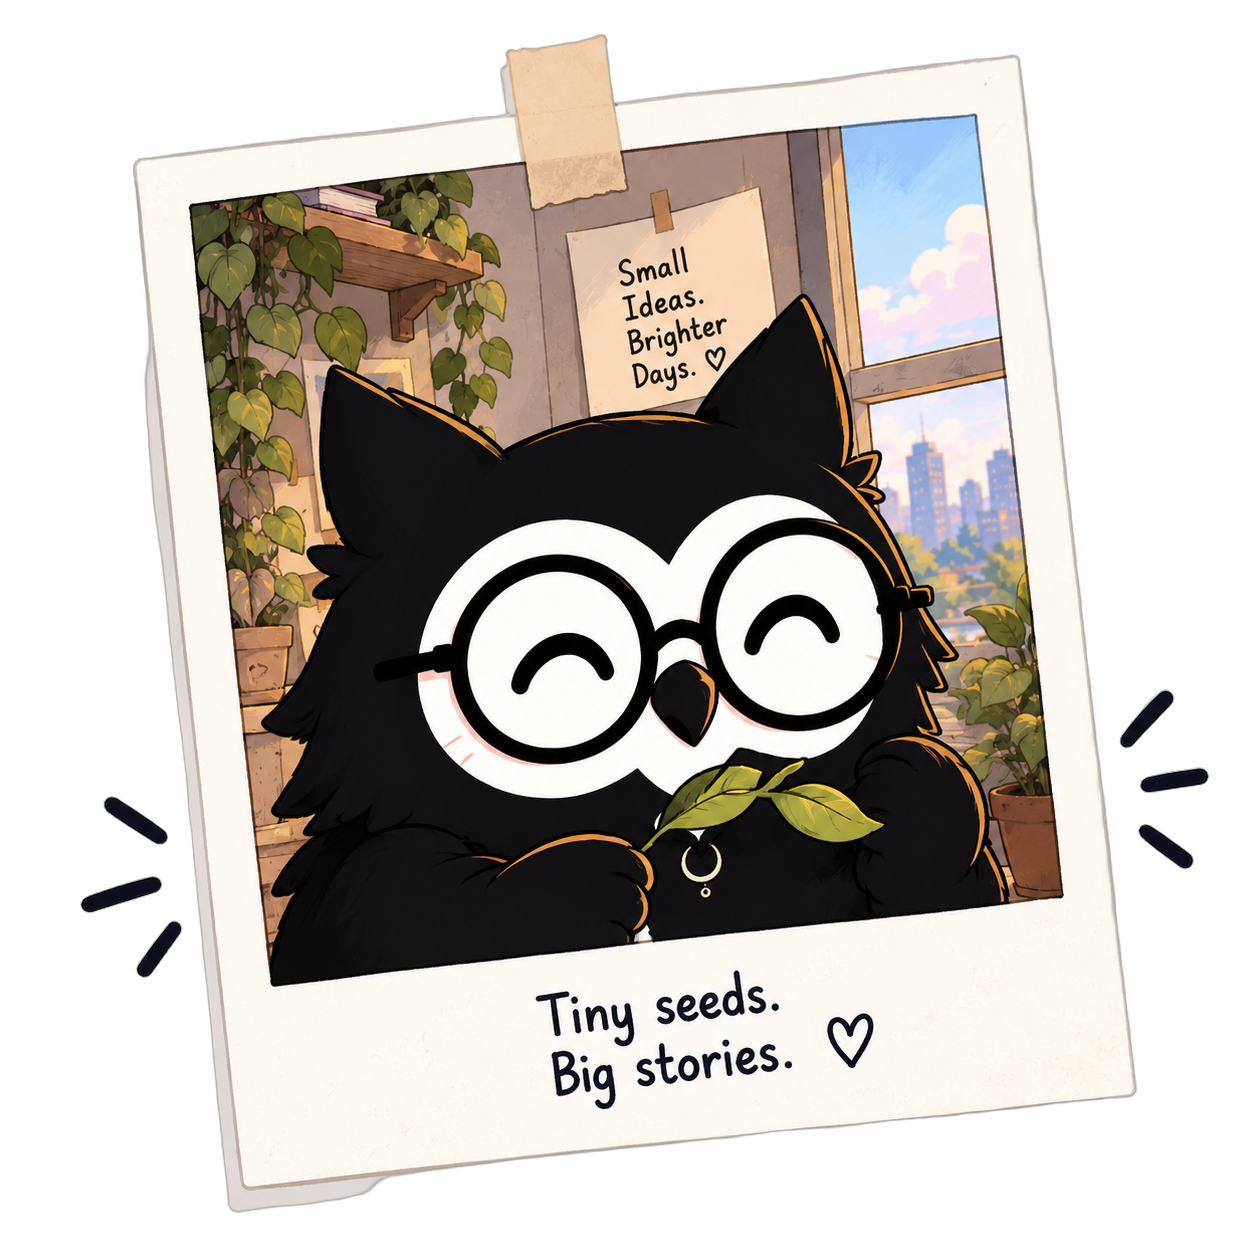
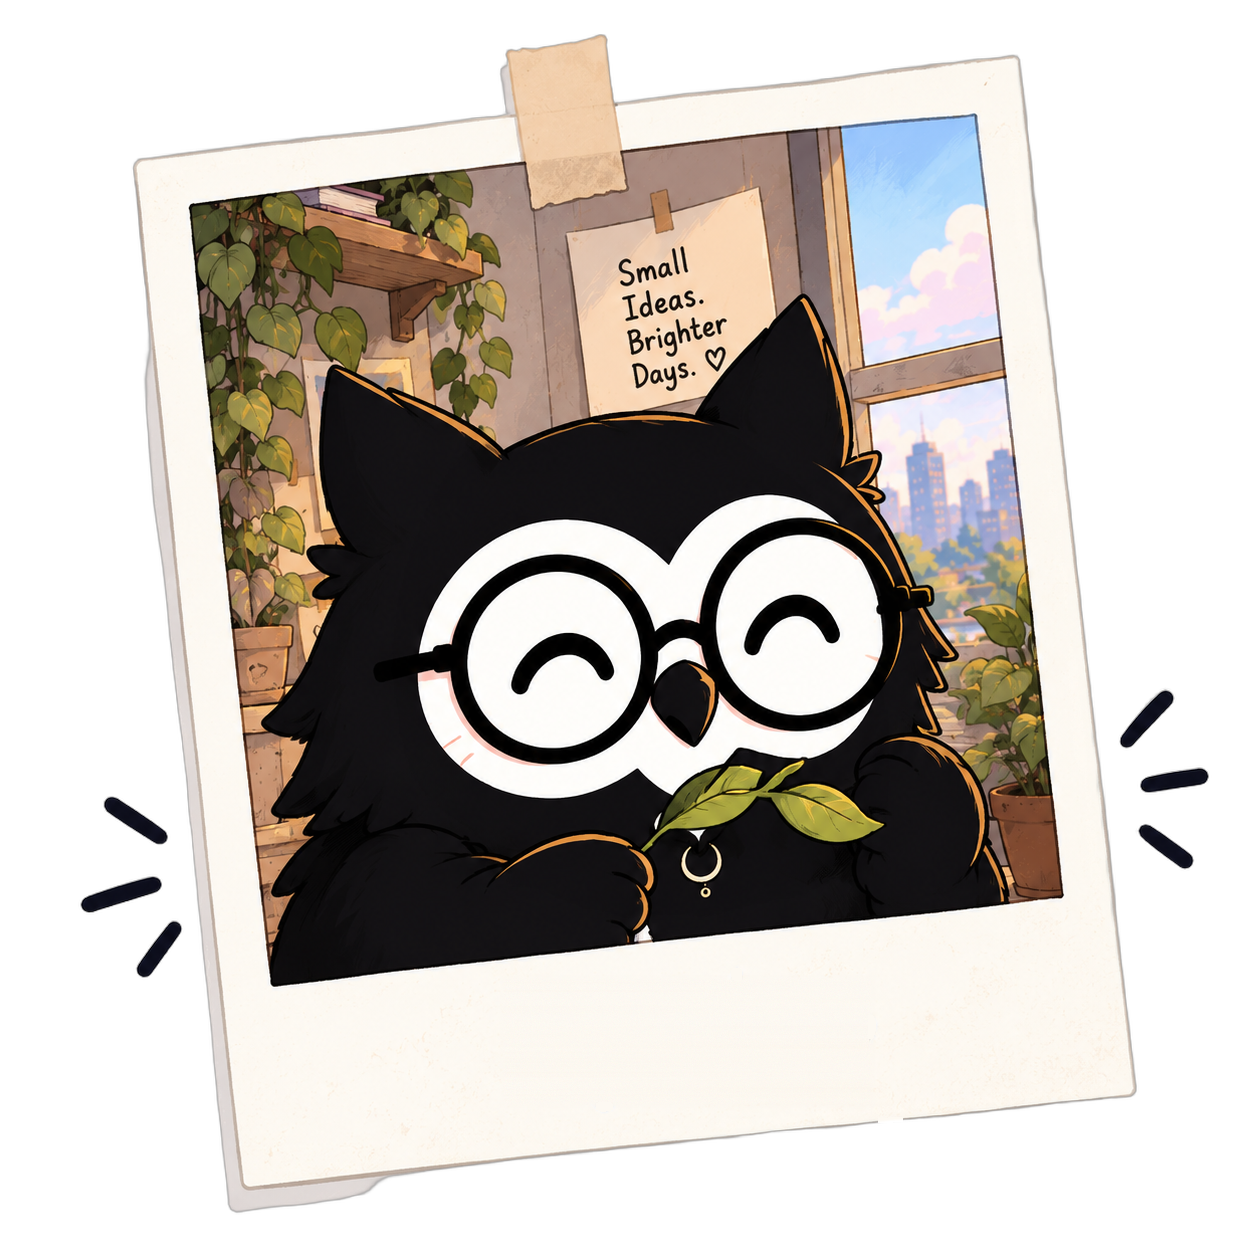
fix: make Prof Hootigan hero section and animated card compact, remove Tiny seeds text from Polaroid

Changed region(s): [[0.4354, 0.7775, 0.622, 0.9019], [0.6531, 0.8086, 0.7153, 0.8708]]

diff --git a/src/pages/ProfHootigan.jsx b/src/pages/ProfHootigan.jsx
@@ -102,25 +102,25 @@ const heroSectionStyle = {
   display: 'flex',
   alignItems: 'center',
   justifyContent: 'space-between',
-  gap: '36px',
-  marginTop: '24px',
-  marginBottom: '42px',
+  gap: '28px',
+  marginTop: '14px',
+  marginBottom: '28px',
   flexWrap: 'wrap'
 };
 
 const heroTextColStyle = {
-  flex: '1 1 380px',
+  flex: '1 1 320px',
   display: 'flex',
   flexDirection: 'column'
 };
 
 const heyThereWrapperStyle = {
-  marginBottom: '10px'
+  marginBottom: '8px'
 };
 
 const heyThereTextStyle = {
   fontFamily: 'var(--font-hand)',
-  fontSize: '1.65rem',
+  fontSize: '1.45rem',
   color: 'var(--text-ink)',
   display: 'inline-block',
   borderBottom: '2.5px solid var(--primary-lavender)',
@@ -129,52 +129,52 @@ const heyThereTextStyle = {
 };
 
 const mainTitleStyle = {
-  fontSize: '3.4rem',
+  fontSize: '2.3rem',
   fontWeight: 700,
-  lineHeight: '1.05',
+  lineHeight: '1.15',
   color: 'var(--text-ink)',
-  margin: '0 0 16px 0',
+  margin: '0 0 10px 0',
   letterSpacing: '-0.02em',
   fontFamily: 'var(--font-display)'
 };
 
 const taglineStyle = {
-  fontSize: '1.18rem',
+  fontSize: '1.05rem',
   fontWeight: 600,
   color: 'var(--text-ink)',
   lineHeight: '1.4',
-  marginBottom: '18px'
+  marginBottom: '10px'
 };
 
 const dividerBarStyle = {
-  width: '42px',
+  width: '36px',
   height: '3px',
   backgroundColor: 'var(--primary-lavender)',
   borderRadius: '2px',
-  marginBottom: '18px'
+  marginBottom: '12px'
 };
 
 const bioTextStyle = {
-  fontSize: '1.02rem',
+  fontSize: '0.94rem',
   color: 'var(--text-muted)',
-  lineHeight: '1.6',
-  maxWidth: '400px'
+  lineHeight: '1.55',
+  maxWidth: '420px'
 };
 
 const heroIllusColStyle = {
-  flex: '1 1 400px',
+  flex: '0 0 250px',
   display: 'flex',
   justifyContent: 'center'
 };
 
 const heroIllusCardStyle = {
-  borderRadius: '22px',
+  borderRadius: '16px',
   overflow: 'hidden',
-  boxShadow: 'var(--shadow-md)',
+  boxShadow: '0 8px 24px rgba(37, 35, 43, 0.1)',
   border: '1px solid var(--border-card)',
   backgroundColor: '#FFFFFF',
   width: '100%',
-  maxWidth: '440px'
+  maxWidth: '240px'
 };
 
 const heroImgStyle = {
